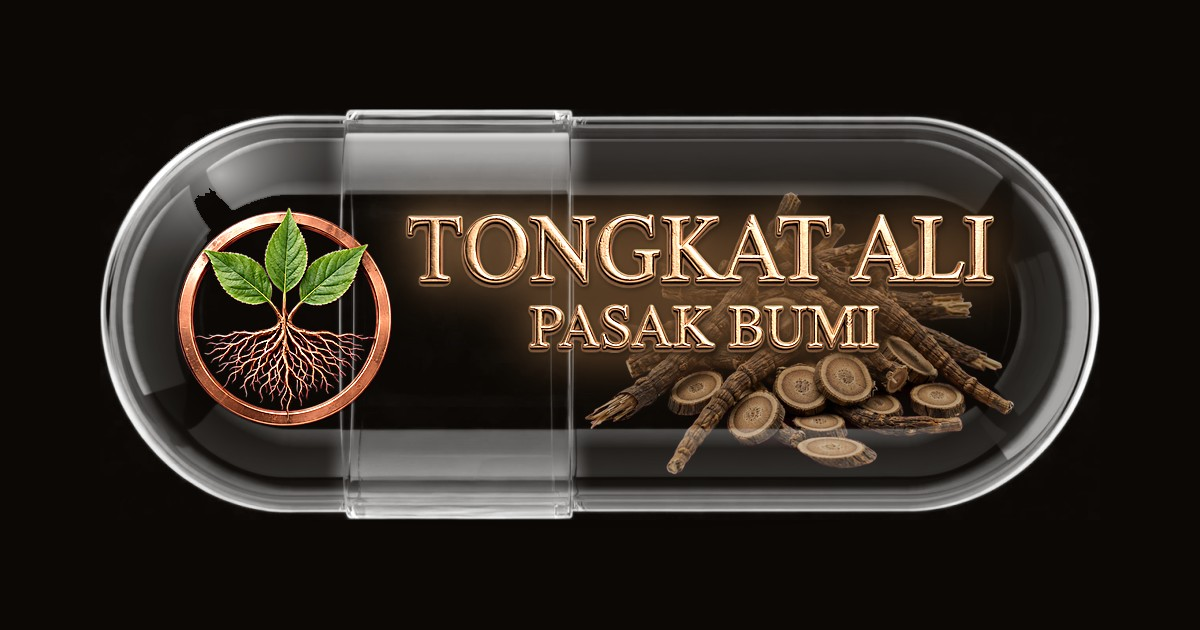
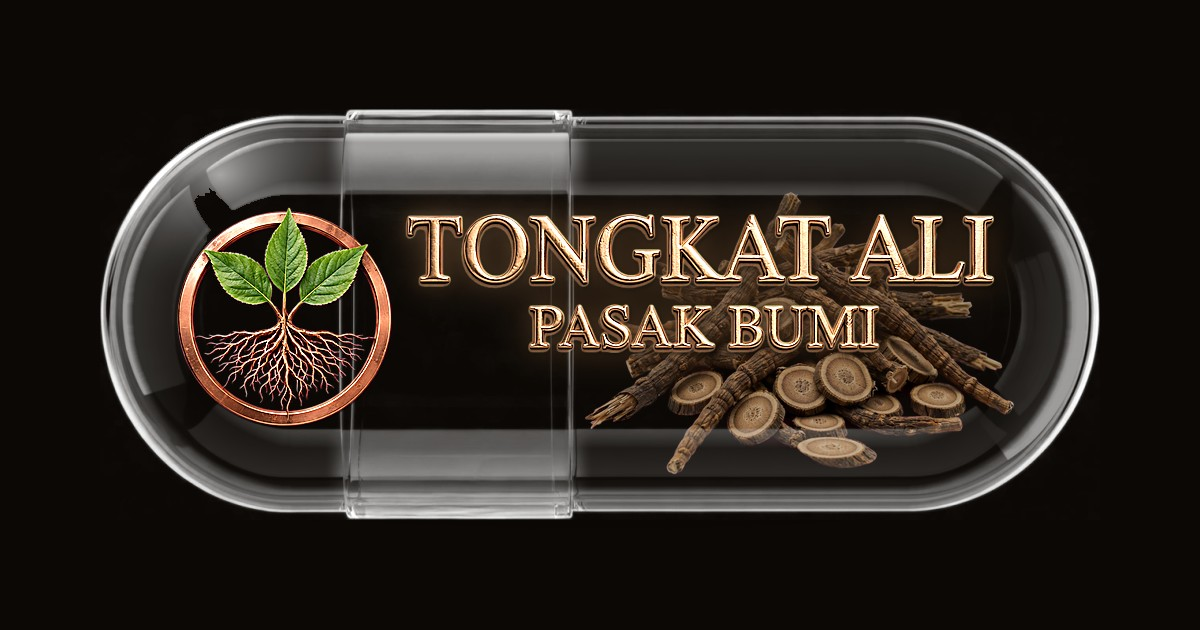
Crisp lettering on all capsules

Changed region(s): [[0.3392, 0.3016, 0.8325, 0.573], [0.6475, 0.5127, 0.6783, 0.573]]

diff --git a/purwoceng.html b/purwoceng.html
@@ -10,15 +10,15 @@
 <link rel="apple-touch-icon" href="/apple-touch-icon.png">
 <meta name="theme-color" content="#050403">
 <meta property="og:locale" content="en_ZA">
-<meta property="og:image" content="https://rootsource.one/og-image.jpg">
+<meta property="og:image" content="https://rootsource.one/purwoceng-og.jpg">
 <meta property="og:image:width" content="1200">
 <meta property="og:image:height" content="630">
 <meta property="og:image:alt" content="Root Source Purwoceng: Purwoceng roots inside a glass capsule on dark volcanic rock">
 <meta name="twitter:card" content="summary_large_image">
 <meta name="twitter:title" content="Purwoceng fact sheet | Root Source">
 <meta name="twitter:description" content="Fact sheet and frequently asked questions for Root Source Purwoceng (Pimpinella pruatjan): the plant story, traditional use, how to take it, who should be careful, safety information and quality.">
-<meta name="twitter:image" content="https://rootsource.one/og-image.jpg">
-<script type="application/ld+json">{"@context":"https://schema.org","@type":"Product","name":"Purwoceng","description":"Purwoceng (Pimpinella pruatjan) water extract capsules, 500mg per capsule.","image":"https://rootsource.one/og-image.jpg","brand":{"@type":"Brand","name":"Root Source"},"url":"https://rootsource.one/purwoceng.html","offers":{"@type":"AggregateOffer","priceCurrency":"ZAR","lowPrice":399,"highPrice":729,"offerCount":2,"seller":{"@id":"https://rootsource.one/#org"}}}</script>
+<meta name="twitter:image" content="https://rootsource.one/purwoceng-og.jpg">
+<script type="application/ld+json">{"@context":"https://schema.org","@type":"Product","name":"Purwoceng","description":"Purwoceng (Pimpinella pruatjan) water extract capsules, 500mg per capsule.","image":"https://rootsource.one/purwoceng-og.jpg","brand":{"@type":"Brand","name":"Root Source"},"url":"https://rootsource.one/purwoceng.html","offers":{"@type":"AggregateOffer","priceCurrency":"ZAR","lowPrice":399,"highPrice":729,"offerCount":2,"seller":{"@id":"https://rootsource.one/#org"}}}</script>
 <meta property="og:type" content="article">
 <meta property="og:site_name" content="Root Source">
 <meta property="og:title" content="Purwoceng fact sheet | Root Source">
@@ -31,6 +31,7 @@
 <link rel="preconnect" href="https://fonts.gstatic.com" crossorigin>
 <link href="https://fonts.googleapis.com/css2?family=Cinzel:wght@400;500;600&family=Cormorant+Garamond:ital,wght@0,400;0,500;0,600;1,400&display=swap" rel="stylesheet">
 <link rel="stylesheet" href="/sheet.css?v=9">
+<link rel="preload" as="image" href="/purwoceng-hero.webp?v=20" type="image/webp">
 <script>document.documentElement.className="js"</script>
 </head>
 <body>
@@ -39,7 +40,7 @@
 <a class="tb-back" href="/#products">&larr; All products</a></header>
 <main>
 <section class="hero2">
-<figure class="himg"><div class="ph big"><img class="emb" src="/logo-emblem.webp" width="360" height="360" alt=""><span class="phn">Purwoceng</span></div></figure>
+<figure class="himg"><img src="/purwoceng-hero.webp?v=20" width="1200" height="540" alt="Root Source Purwoceng: Purwoceng roots inside a glass capsule on dark volcanic rock" fetchpriority="high"></figure>
 <div class="tblock">
 <p class="eyebrow">Fact sheet</p>
 <h1>Purwoceng</h1>
@@ -102,7 +103,7 @@
 </div>
 </section>
 <section class="orderband rv" id="order">
-<div class="ph mid"><img class="emb" src="/logo-emblem.webp" width="360" height="360" alt=""><span class="phn">Purwoceng</span></div>
+<img src="/purwoceng-card.webp" loading="lazy" width="700" height="315" alt="">
 <div><h2>Order Purwoceng</h2><p>Choose your size and quantity on our order page. We confirm availability and send our payment details before anything is paid. For questions, you can also message us on WhatsApp.</p><div class="cta"><a class="btn go" href="checkout.html?add=purwoceng&size=0&qty=1">Order Purwoceng</a> <a class="btn ghost" href="https://wa.me/27687344919?text=Hi%20Root%20Source%2C%20I%20have%20a%20question." target="_blank" rel="noopener">Ask a question on WhatsApp</a></div></div>
 </section>
 <section class="range rv"><h2>Explore the range</h2><div class="rgrid"><a class="rcard" href="/tongkat-ali.html"><img loading="lazy" src="/tongkat-ali-card.webp" width="700" height="315" alt="Root Source Tongkat Ali (Pasak Bumi): sliced and whole roots inside a glass capsule on dark volcanic rock"><span class="rname">Tongkat Ali <small>(Pasak Bumi)</small></span><span class="rgo">Read the fact sheet &rarr;</span></a><a class="rcard" href="/sambiloto.html"><img loading="lazy" src="/sambiloto-card.webp" width="700" height="315" alt="Root Source Sambiloto: green Sambiloto leaves inside a glass capsule on dark volcanic rock"><span class="rname">Sambiloto</span><span class="rgo">Read the fact sheet &rarr;</span></a><a class="rcard" href="/menthol.html"><img loading="lazy" src="/menthol-card.webp" width="700" height="315" alt="Root Source Menthol Crystals: menthol crystals and mint leaves on dark volcanic rock"><span class="rname">Menthol Crystals</span><span class="rgo">Read the fact sheet &rarr;</span></a></div></section>

diff --git a/tongkat-ali.html b/tongkat-ali.html
@@ -31,7 +31,7 @@
 <link rel="preconnect" href="https://fonts.gstatic.com" crossorigin>
 <link href="https://fonts.googleapis.com/css2?family=Cinzel:wght@400;500;600&family=Cormorant+Garamond:ital,wght@0,400;0,500;0,600;1,400&display=swap" rel="stylesheet">
 <link rel="stylesheet" href="/sheet.css?v=9">
-<link rel="preload" as="image" href="/tongkat-ali-hero.webp?v=18" type="image/webp">
+<link rel="preload" as="image" href="/tongkat-ali-hero.webp?v=20" type="image/webp">
 <script>document.documentElement.className="js"</script>
 </head>
 <body>
@@ -40,7 +40,7 @@
 <a class="tb-back" href="/#products">&larr; All products</a></header>
 <main>
 <section class="hero2">
-<figure class="himg"><img src="/tongkat-ali-hero.webp?v=18" width="1200" height="540" alt="Root Source Tongkat Ali (Pasak Bumi): sliced and whole roots inside a glass capsule on dark volcanic rock" fetchpriority="high"></figure>
+<figure class="himg"><img src="/tongkat-ali-hero.webp?v=20" width="1200" height="540" alt="Root Source Tongkat Ali (Pasak Bumi): sliced and whole roots inside a glass capsule on dark volcanic rock" fetchpriority="high"></figure>
 <div class="tblock">
 <p class="eyebrow">Fact sheet</p>
 <h1>Tongkat Ali</h1>

diff --git a/sambiloto.html b/sambiloto.html
@@ -31,7 +31,7 @@
 <link rel="preconnect" href="https://fonts.gstatic.com" crossorigin>
 <link href="https://fonts.googleapis.com/css2?family=Cinzel:wght@400;500;600&family=Cormorant+Garamond:ital,wght@0,400;0,500;0,600;1,400&display=swap" rel="stylesheet">
 <link rel="stylesheet" href="/sheet.css?v=9">
-<link rel="preload" as="image" href="/sambiloto-hero.webp?v=13" type="image/webp">
+<link rel="preload" as="image" href="/sambiloto-hero.webp?v=20" type="image/webp">
 <script>document.documentElement.className="js"</script>
 </head>
 <body>
@@ -40,7 +40,7 @@
 <a class="tb-back" href="/#products">&larr; All products</a></header>
 <main>
 <section class="hero2">
-<figure class="himg"><img src="/sambiloto-hero.webp?v=13" width="1200" height="540" alt="Root Source Sambiloto: green Sambiloto leaves inside a glass capsule on dark volcanic rock" fetchpriority="high"></figure>
+<figure class="himg"><img src="/sambiloto-hero.webp?v=20" width="1200" height="540" alt="Root Source Sambiloto: green Sambiloto leaves inside a glass capsule on dark volcanic rock" fetchpriority="high"></figure>
 <div class="tblock">
 <p class="eyebrow">Fact sheet</p>
 <h1>Sambiloto</h1>

diff --git a/menthol.html b/menthol.html
@@ -31,7 +31,7 @@
 <link rel="preconnect" href="https://fonts.gstatic.com" crossorigin>
 <link href="https://fonts.googleapis.com/css2?family=Cinzel:wght@400;500;600&family=Cormorant+Garamond:ital,wght@0,400;0,500;0,600;1,400&display=swap" rel="stylesheet">
 <link rel="stylesheet" href="/sheet.css?v=9">
-<link rel="preload" as="image" href="/menthol-hero.webp?v=13" type="image/webp">
+<link rel="preload" as="image" href="/menthol-hero.webp?v=20" type="image/webp">
 <script>document.documentElement.className="js"</script>
 </head>
 <body>
@@ -40,7 +40,7 @@
 <a class="tb-back" href="/#products">&larr; All products</a></header>
 <main>
 <section class="hero2">
-<figure class="himg"><img src="/menthol-hero.webp?v=13" width="1200" height="540" alt="Root Source Menthol Crystals: menthol crystals and mint leaves on dark volcanic rock" fetchpriority="high"></figure>
+<figure class="himg"><img src="/menthol-hero.webp?v=20" width="1200" height="540" alt="Root Source Menthol Crystals: menthol crystals and mint leaves on dark volcanic rock" fetchpriority="high"></figure>
 <div class="tblock">
 <p class="eyebrow">Fact sheet</p>
 <h1>Menthol Crystals</h1>
